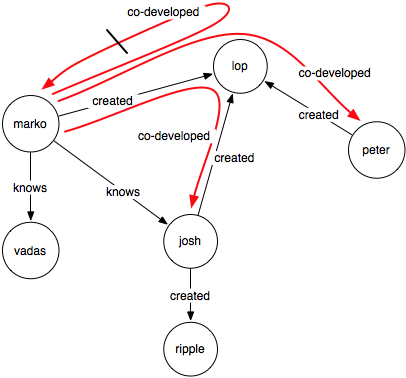
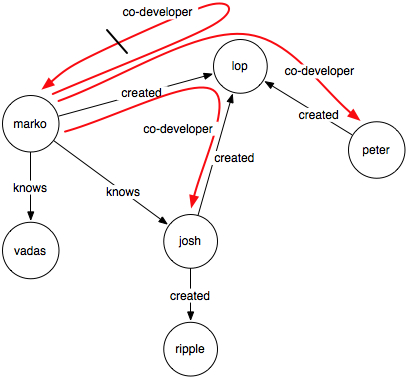
documentation image update. users can now overwrite gremlin path definitions. made dynamic paths more efficient.

diff --git a/trunk/src/test/java/com/tinkerpop/gremlin/DynamicFunctionTest.java b/trunk/src/test/java/com/tinkerpop/gremlin/DynamicFunctionTest.java
@@ -51,8 +51,7 @@ public class DynamicFunctionTest extends TestCase {
         GremlinEvaluator ge = new GremlinEvaluator();
         InputStream funcReturnsMap = new ByteArrayInputStream("func x:y()\ng:map(1, 2)\nend\nx:y()\n".getBytes());
         Map result = (Map) ge.evaluate(funcReturnsMap).get(0);
-
-        assertTrue(result instanceof Map);
+        assertTrue(result != null);
         assertEquals(result.size(), 1);
         assertEquals(result.get(1.0), 2.0);
     }
@@ -60,16 +59,13 @@ public class DynamicFunctionTest extends TestCase {
     public void testFunctionCallFromOtherFunction() throws IOException {
         GremlinEvaluator ge = new GremlinEvaluator();
         InputStream funcArgFunc = new ByteArrayInputStream("func x:y($p)\nconcat('hello ', $p)\nend\nfunc y:y()\n'p'\nend\nx:y(y:y())".getBytes());
-        
         assertEquals(ge.evaluate(funcArgFunc).get(0), "hello p");
     }
 
     public void testFunctionInsideXPath() throws IOException {
         GremlinEvaluator ge = new GremlinEvaluator();
         InputStream funcInsideXPathReturnsPath = new ByteArrayInputStream("$_g := tg:open()\n$p := g:add-v()\n$m := g:add-v()\ng:add-e($p, 'knows', $m)\ng:add-e($p, 'co-developer', $m)\nfunc x:y($w)\n$w\nend\ng:type($p/outE[x:y(1)])".getBytes());
-       
         InputStream funcInsideXPathReturnsLabel = new ByteArrayInputStream("$_g := tg:open()\n$p := g:add-v()\n$m := g:add-v()\ng:add-e($p, 'knows', $m)\ng:add-e($p, 'co-developer', $m)\nfunc x:y($w)\n$w\nend\n$p/outE[x:y(1)]/@label".getBytes());
-
         assertEquals(ge.evaluate(funcInsideXPathReturnsPath).get(0), "edge");
         assertEquals(ge.evaluate(funcInsideXPathReturnsLabel).get(0), "co-developer");
     }
@@ -77,7 +73,6 @@ public class DynamicFunctionTest extends TestCase {
     public void testUDFunctionCallFromAnotherUDFunction() throws IOException {
         GremlinEvaluator ge = new GremlinEvaluator();
         InputStream funcInsideFuncCall = new ByteArrayInputStream("func x:y($num)\nfunc y:sq($num)\n$num * $num\nend\n$sq := y:sq($num)\n$sq + 6\nend\nx:y(2)".getBytes());
-    
         assertEquals(ge.evaluate(funcInsideFuncCall).get(0), 10.0);
     }
 }

diff --git a/trunk/src/main/java/com/tinkerpop/gremlin/ElementPropertyHandler.java b/trunk/src/main/java/com/tinkerpop/gremlin/ElementPropertyHandler.java
@@ -1,13 +1,10 @@
 package com.tinkerpop.gremlin;
 
 import com.tinkerpop.gremlin.statements.EvaluationException;
-import com.tinkerpop.gremlin.statements.Tokens;
 import org.apache.commons.jxpath.DynamicPropertyHandler;
 
 import java.util.HashMap;
-import java.util.HashSet;
 import java.util.Map;
-import java.util.Set;
 
 /**
  * @author Marko A. Rodriguez (http://markorodriguez.com)
@@ -15,11 +12,9 @@ import java.util.Set;
 public abstract class ElementPropertyHandler implements DynamicPropertyHandler {
 
     private static Map<String, DynamicPath> paths = new HashMap<String, DynamicPath>();
-    private static Set<String> properties = new HashSet<String>();
-
 
     public String[] getPropertyNames(final Object object) {
-        return properties.toArray(new String[properties.size()]);
+        return paths.keySet().toArray(new String[paths.size()]);
     }
 
     public Object getProperty(final Object object, final String key) {
@@ -28,15 +23,10 @@ public abstract class ElementPropertyHandler implements DynamicPropertyHandler {
     }
 
     public static void addDynamicPath(DynamicPath path) throws EvaluationException {
-        String pathName = path.getPathName();
-        if (pathName.equals(Tokens.VERTICES) || pathName.equals(Tokens.EDGES) || pathName.equals(Tokens.OUT_EDGES) ||
-                pathName.equals(Tokens.IN_EDGES) || pathName.equals(Tokens.BOTH_EDGES) || pathName.equals(Tokens.OUT_VERTEX) ||
-                pathName.equals(Tokens.IN_VERTEX) || pathName.equals(Tokens.BOTH_VERTICES) || pathName.equals(Tokens.LABEL) ||
-                pathName.equals(Tokens.ID)) {
-            throw new EvaluationException("Cannot override Gremlin path primitive: " + pathName);
-        } else {
-            paths.put(pathName, path);
-            properties.add(pathName);
-        }
+        paths.put(path.getPathName(), path);
+    }
+
+    public boolean containsProperty(String key) {
+        return paths.containsKey(key);
     }
 }

diff --git a/trunk/src/test/java/com/tinkerpop/gremlin/DynamicPathTest.java b/trunk/src/test/java/com/tinkerpop/gremlin/DynamicPathTest.java
@@ -69,28 +69,28 @@ public class DynamicPathTest extends TestCase {
 
     }
 
-    public void testOverrideError() throws Exception {
+    public void testOverrideAllowance() throws Exception {
         GremlinEvaluator ge = new GremlinEvaluator();
         InputStream simpleFunc = new ByteArrayInputStream("path outE\nend\n".getBytes());
         try {
             ge.evaluate(simpleFunc);
-            assertTrue(false);
-        } catch (Exception e) {
             assertTrue(true);
+        } catch (Exception e) {
+            assertTrue(false);
         }
         simpleFunc = new ByteArrayInputStream("path inE\nend\n".getBytes());
         try {
             ge.evaluate(simpleFunc);
-            assertTrue(false);
-        } catch (Exception e) {
             assertTrue(true);
+        } catch (Exception e) {
+            assertTrue(false);
         }
         simpleFunc = new ByteArrayInputStream("path bothV\nend\n".getBytes());
         try {
             ge.evaluate(simpleFunc);
-            assertTrue(false);
-        } catch (Exception e) {
             assertTrue(true);
+        } catch (Exception e) {
+            assertTrue(false);
         }
 
     }

diff --git a/trunk/src/main/java/com/tinkerpop/gremlin/VertexPropertyHandler.java b/trunk/src/main/java/com/tinkerpop/gremlin/VertexPropertyHandler.java
@@ -43,8 +43,9 @@ public class VertexPropertyHandler extends ElementPropertyHandler {
     public Object getProperty(final Object vertexObject, final String key) {
 
         Vertex vertex = (Vertex) vertexObject;
-
-        if (key.equals(Tokens.OUT_EDGES)) {
+        if (super.containsProperty(key)) {
+            return super.getProperty(vertexObject, key);
+        } else if (key.equals(Tokens.OUT_EDGES)) {
             return GraphPropertyHandler.createListFromIterable(vertex.getOutEdges());
         } else if (key.equals(Tokens.IN_EDGES)) {
             return GraphPropertyHandler.createListFromIterable(vertex.getInEdges());
@@ -54,10 +55,8 @@ public class VertexPropertyHandler extends ElementPropertyHandler {
             return bothEdges;
         } else if (key.equals(Tokens.ID)) {
             return vertex.getId();
-        } else if (vertex.getPropertyKeys().contains(key)) {
-            return vertex.getProperty(key);
         } else {
-            return super.getProperty(vertexObject, key);
+            return vertex.getProperty(key);
         }
     }
 }

diff --git a/trunk/src/main/java/com/tinkerpop/gremlin/EdgePropertyHandler.java b/trunk/src/main/java/com/tinkerpop/gremlin/EdgePropertyHandler.java
@@ -44,7 +44,10 @@ public class EdgePropertyHandler extends ElementPropertyHandler {
 
     public Object getProperty(final Object edgeObject, final String key) {
         Edge edge = (Edge) edgeObject;
-        if (key.equals(Tokens.OUT_VERTEX)) {
+
+        if (super.containsProperty(key)) {
+            return super.getProperty(edgeObject, key);
+        } else if (key.equals(Tokens.OUT_VERTEX)) {
             return edge.getOutVertex();
         } else if (key.equals(Tokens.IN_VERTEX)) {
             return edge.getInVertex();
@@ -57,10 +60,8 @@ public class EdgePropertyHandler extends ElementPropertyHandler {
             return edge.getLabel();
         } else if (key.equals(Tokens.ID)) {
             return edge.getId();
-        } else if (edge.getPropertyKeys().contains(key)) {
-            return edge.getProperty(key);
         } else {
-            return super.getProperty(edgeObject, key);
+            return edge.getProperty(key);
         }
     }
 }
